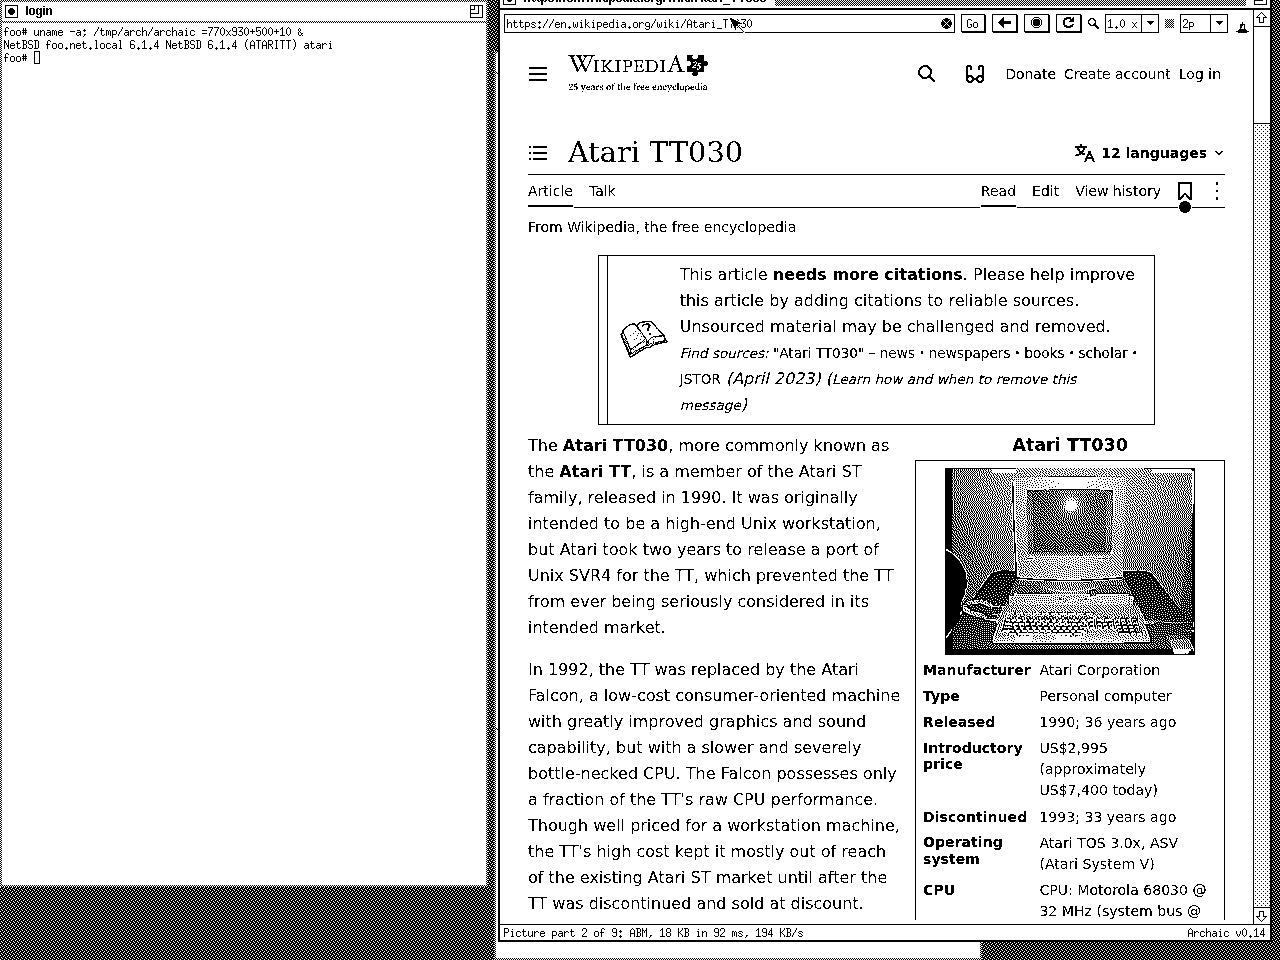
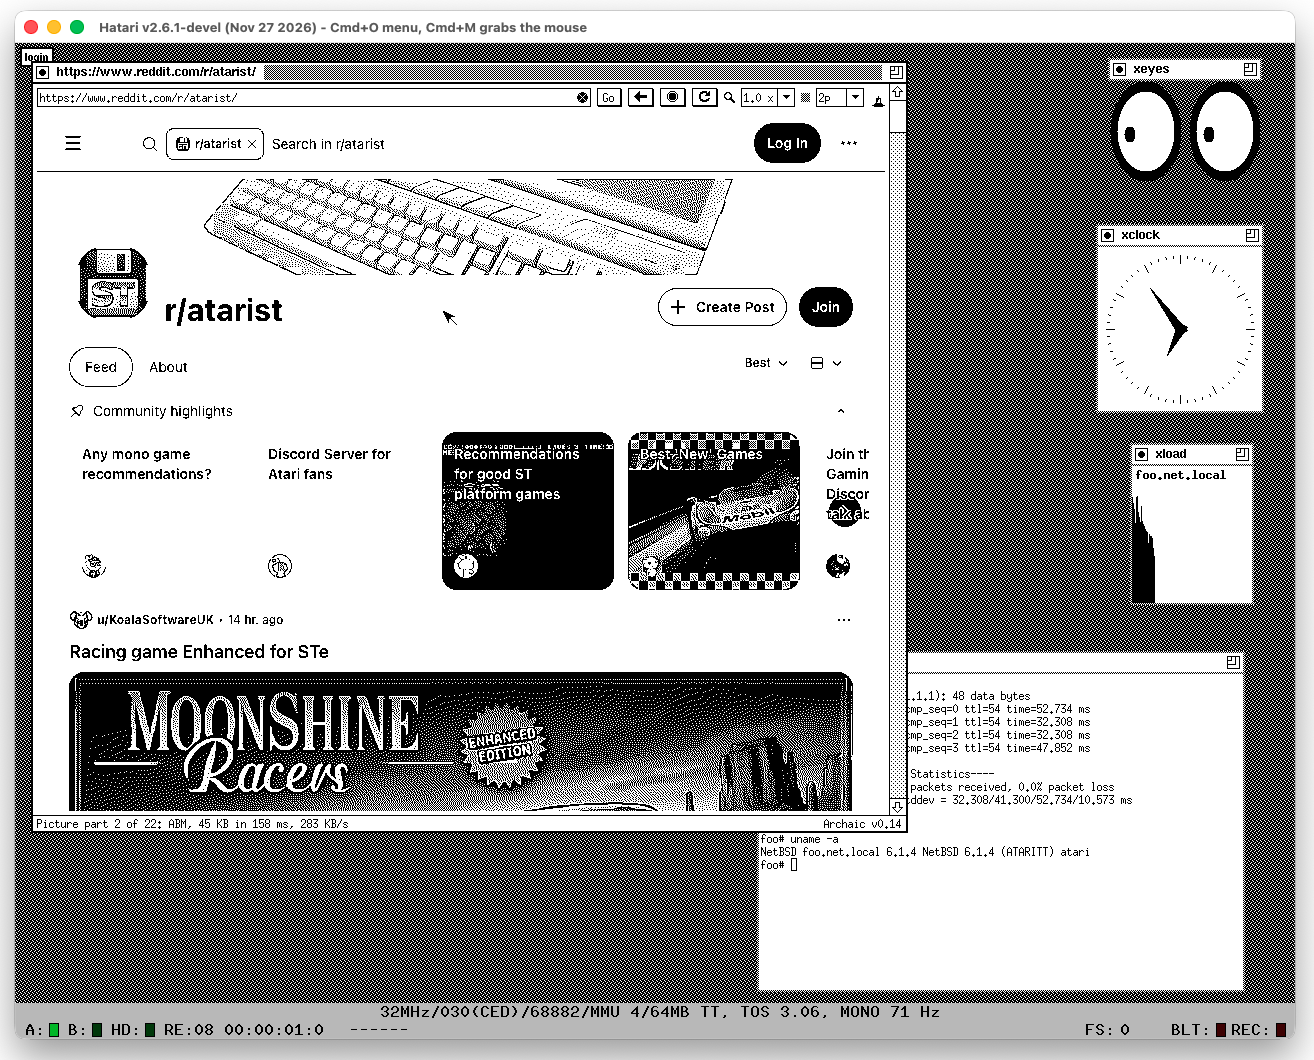
readme: netbsd/m68k on the atari tt, a row in platforms and the screenshot (hatari, twm, reddit's r/atarist in archaic)

diff --git a/README.md b/README.md
@@ -51,6 +51,8 @@ In addition, Archaic is very small and simple and can be built for platforms tha
 
 ![Archaic in Hatari: EmuTOS 1.4 with GEM on an Atari Falcon030, 640x480 in 256 colors, STinG on a NetUSBee, showing Wikipedia in 216 colors](screenshots/tos-color.png)
 
+![Archaic in Hatari: NetBSD 6.1.4 with X11 on an Atari TT030, mono 1280x960, showing Reddit](screenshots/hatari-netbsd.png)
+
 ![Archaic in LEMU (QEMU): A/UX 3.1.1 with the Finder on a Quadra 800, showing Wikipedia in 216 colors](screenshots/lemu-aux.png)
 
 ![Archaic in LEMU (QEMU): Windows NT 3.1 on a Pentium PC, showing Wikipedia in 216 colors](screenshots/lemu-nt.png)
@@ -73,6 +75,7 @@ In addition, Archaic is very small and simple and can be built for platforms tha
 | Mac OS 7.5 on a 68k Mac (Mac II) | QuickDraw, in color, multitasking | Open Transport | release: `archaic-macos7.dsk` (a floppy image), or `make mac` |
 | FreeMiNT on an Atari (ARAnyM: TT/Falcon-class 68040) | GEM (XaAES), in color | MiNTNet (BSD sockets) | `make mint`: `archaic-mint.prg` |
 | TOS on an Atari ST, STE, TT or Falcon | GEM, in color with 16 colors or more | STinG (NetUSBee, EtherNEC) | `make tos`: `archaic-tos.prg` |
+| NetBSD 6 and newer on a 68k machine (Atari TT) | X11 | BSD sockets (NetUSBee, EtherNEC) | release: `archaic-netbsdm68k`, or `make` on NetBSD |
 | A/UX 3.1 on a 68k Mac (Quadra) | the A/UX Toolbox (QuickDraw), in color, multitasking | BSD sockets | in the A/UX kit, or build it on A/UX: `sh mkaux` |
 | Windows NT 3.1 and newer on x86, MIPS and Alpha, NT 3.51 and newer on PowerPC, NT 3.5 and 4.0 on ARM (PINT, the Raspberry Pi) | Win32 (GDI), in color | Winsock | `make nt`: `archaic-ntx86.exe`, `archaic-ntmips.exe`, `archaic-ntalpha.exe`, `archaic-ntppc.exe`, `archaic-ntarm.exe` |
 | Unix | X11 | BSD sockets | `make` |

diff --git a/ports/netbsd.md b/ports/netbsd.md
@@ -17,8 +17,9 @@ The parts that all systems share (Colors, Pictures, Updates, Porting ...) are in
 - Archaic looks for WRP at `http://10.0.2.2:8080/`: your computer, in Hatari's NAT
   (with `--nat-loopback on`, as the VM's `run.sh` has it). Elsewhere: `archaic HOST:8080`, or set `WRP` to `HOST:8080`.
 - The TT's screen in high resolution is 1280 x 960 with 1 bit (mono): the pictures are ABM, dithered to black and white.
-- `screenshots/hatari-netbsd.png`: the TT's screen, 1280 x 960 mono, with twm: `uname -a` in an xterm,
-  and Wikipedia's Atari TT030 article, in 17 s from Return until the page is complete (WRP 4.14.5 in Docker on the Mac).
+- `screenshots/hatari-netbsd.png`: Hatari's window, the TT's screen 1280 x 960 mono with twm: Reddit's r/atarist in Archaic,
+  xeyes, xclock, xload, and `ping` and `uname -a` in xterms.
+- Wikipedia's Atari TT030 article: 17 s from Return until the page is complete (WRP 4.14.5 in Docker on the Mac).
 
 ## Building on NetBSD
 
